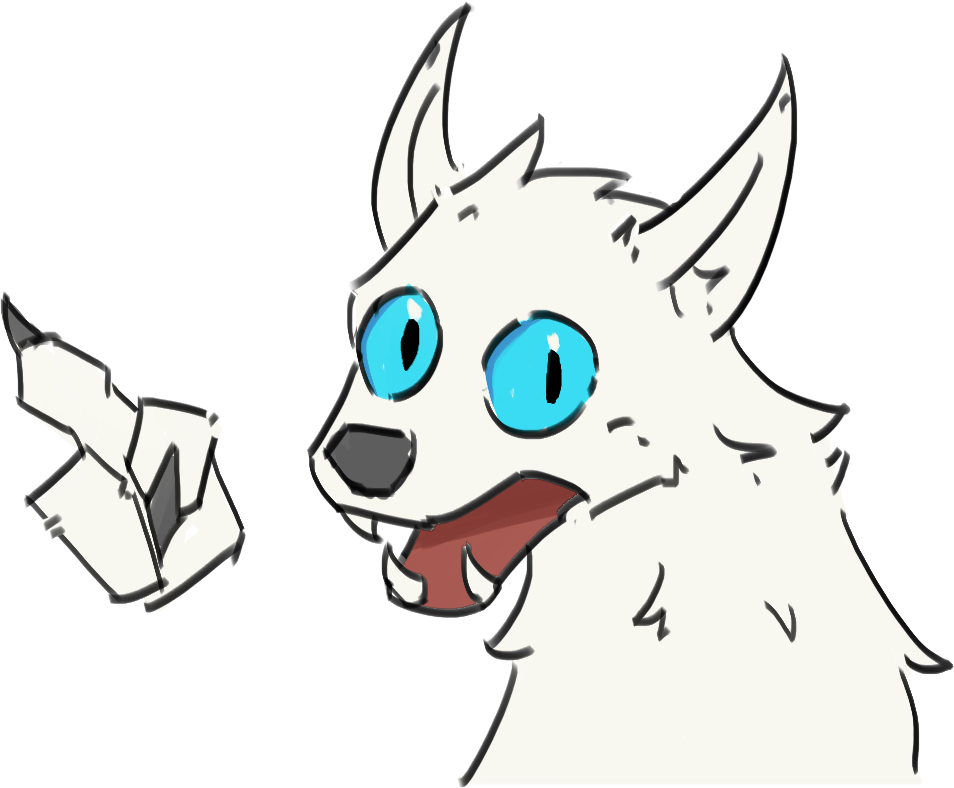
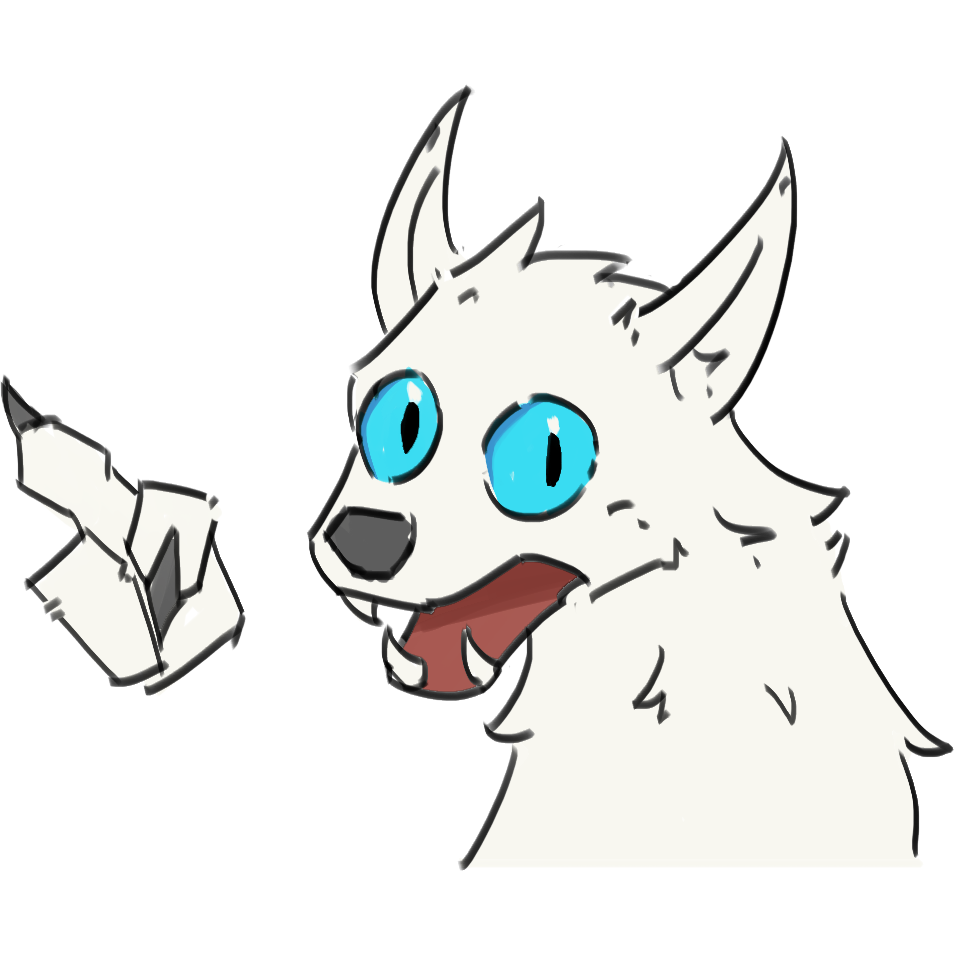
对详情页细节进行一些调整

diff --git a/pages/about/index.html b/pages/about/index.html
@@ -31,7 +31,6 @@
       .about-section h2 {
         margin: 0;
         font-size: 14px;
-        text-transform: uppercase;
         letter-spacing: 0.18em;
         color: var(--sage);
       }
@@ -46,47 +45,66 @@
       }
 
       .about-figure.center img {
-        width: min(100%, 720px);
-        margin: 0 auto;
+        width: 720px;
       }
 
       .about-figure.qr img {
-        width: min(220px, 60vw);
+        width: 220px;
+      }
+
+      .about-figure.center img,
+      .about-figure.qr img {
         margin: 0 auto;
       }
 
-      .about-row {
-        display: flex;
-        flex-wrap: wrap;
+      .about-split {
+        display: grid;
+        grid-template-columns: 1fr auto;
         gap: 20px;
+        align-items: start;
         margin-bottom: 28px;
       }
 
-      .about-row .about-section {
-        flex: 1 1 320px;
+      .about-split .about-section {
         margin-bottom: 0;
       }
 
-      .about-row .about-figure {
-        flex: 0 1 200px;
+      .about-split .about-figure {
         margin: 0;
-        display: flex;
-        justify-content: flex-end;
       }
 
-      .about-row .about-figure img {
-        max-height: 140px;
-        object-fit: contain;
+      .about-split .about-figure img {
+        width: 150px;
+        height: auto;
+        display: block;
+      }
+
+      .about-frame {
+        position: relative;
+      }
+
+      .about-frame::before {
+        content: "";
+        position: absolute;
+        inset: 0;
+        background: url("./img/007.png") no-repeat center;
+        background-size: clamp(260px, 60%, 520px) auto;
+        opacity: 0.16;
+        pointer-events: none;
+      }
+
+      .about-frame > * {
+        position: relative;
+        z-index: 1;
       }
 
       .rating-chart {
-        flex: 0 1 360px;
+        width: 360px;
         display: flex;
         align-items: flex-end;
         justify-content: center;
         gap: 14px;
         padding-top: 6px;
-        margin-left: auto;
       }
 
       .rating-item {
@@ -119,19 +137,6 @@
         border-radius: 2px;
       }
 
-      @media (max-width: 720px) {
-        .about-row .about-figure {
-          flex-basis: 100%;
-          justify-content: center;
-        }
-
-        .rating-chart {
-          flex: 1 1 100%;
-          width: 100%;
-          margin-left: 0;
-          justify-content: center;
-        }
-      }
     </style>
   </head>
   <body>
@@ -164,7 +169,8 @@
         <img src="./img/001.png" alt="学习路径与问题地图" />
       </figure>
 
-      <div class="about-row">
+      <div class="about-frame">
+      <div class="about-split">
         <section class="about-section">
           <h2>动机</h2>
           <p>
@@ -179,7 +185,7 @@
         </figure>
       </div>
 
-      <div class="about-row">
+      <div class="about-split">
         <section class="about-section">
           <h2>什么时候可以问，在哪里问？</h2>
           <p>
@@ -193,7 +199,7 @@
         </figure>
       </div>
 
-      <div class="about-row">
+      <div class="about-split">
         <section class="about-section">
           <h2>关于“权威”或“可信度”</h2>
           <p>
@@ -208,16 +214,15 @@
         </figure>
       </div>
 
-
-
-      <section class="about-section">
-        <h2>我希望</h2>
-        <p>
-          无论你是新手、已经走了一段路的高手，或者非常厉害的大佬，我都希望降低彼此沟通的压力。
-          不因为画技差异而害怕问“笨问题”，也不因为程度不同而不屑交流。理想状态是：双方互相探讨、
-          分享思路与技巧，形成良性循环的友好环境。
-        </p>
-      </section>
+        <section class="about-section">
+          <h2>我希望</h2>
+          <p>
+            无论你是新手、已经走了一段路的高手，或者非常厉害的大佬，我都希望降低彼此沟通的压力。
+            不因为画技差异而害怕问“笨问题”，也不因为程度不同而不屑交流。理想状态是：双方互相探讨、
+            分享思路与技巧，形成良性循环的友好环境。
+          </p>
+        </section>
+      </div>
 
       <section class="about-section">
         <h2>目前的关注方向</h2>
@@ -230,7 +235,7 @@
         <img src="./img/006.png" alt="目前关注方向展示" />
       </figure>
 
-      <div class="about-row">
+      <div class="about-split">
         <section class="about-section">
           <h2>自我评分说明</h2>
           <p>
@@ -287,7 +292,7 @@
       </section>
 
       <figure class="about-figure qr">
-        <img src="./img/005.jpg" alt="阶段性作品与练习" />
+        <img src="./img/005.png" alt="阶段性作品与练习" />
       </figure>
     </div>
   </body>

diff --git a/pages/home/index.html b/pages/home/index.html
@@ -32,7 +32,6 @@
       .section-title {
         margin: 36px 0 16px;
         font-size: 14px;
-        text-transform: uppercase;
         letter-spacing: 0.2em;
         color: var(--muted);
       }
@@ -78,7 +77,6 @@
         flex-wrap: wrap;
         gap: 10px;
         font-size: 12px;
-        text-transform: uppercase;
         letter-spacing: 0.12em;
         color: var(--sage);
       }

diff --git a/assets/styles/common.css b/assets/styles/common.css
@@ -17,7 +17,6 @@
   font-weight: 600;
   letter-spacing: 0.02em;
   font-size: 20px;
-  text-transform: uppercase;
   color: var(--sage);
 }
 
@@ -26,7 +25,6 @@
   display: flex;
   gap: 12px;
   font-size: 12px;
-  text-transform: uppercase;
   letter-spacing: 0.18em;
   color: var(--sage);
 }

diff --git a/pages/post/index.html b/pages/post/index.html
@@ -51,7 +51,6 @@
         margin-top: 14px;
         color: var(--sage);
         font-size: 12px;
-        text-transform: uppercase;
         letter-spacing: 0.15em;
       }
 
